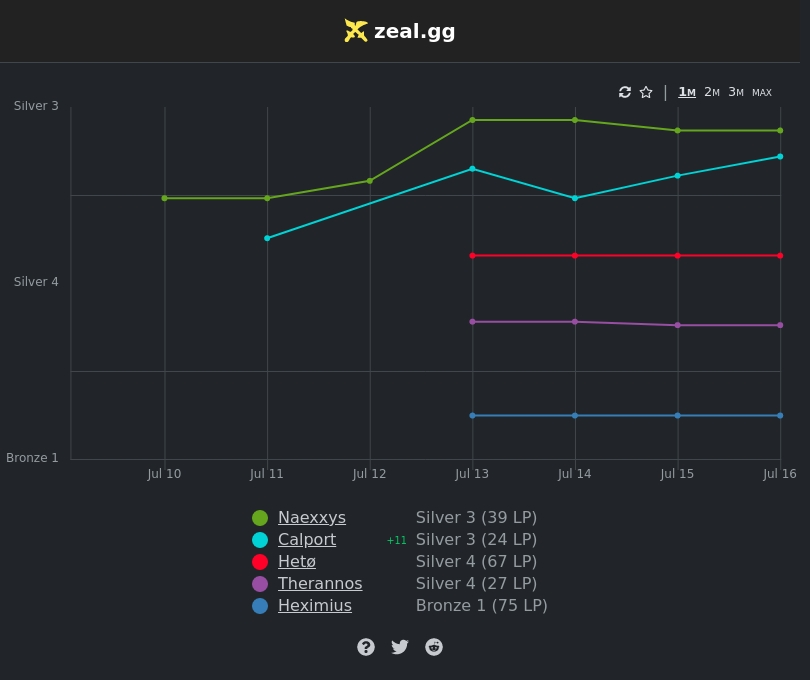
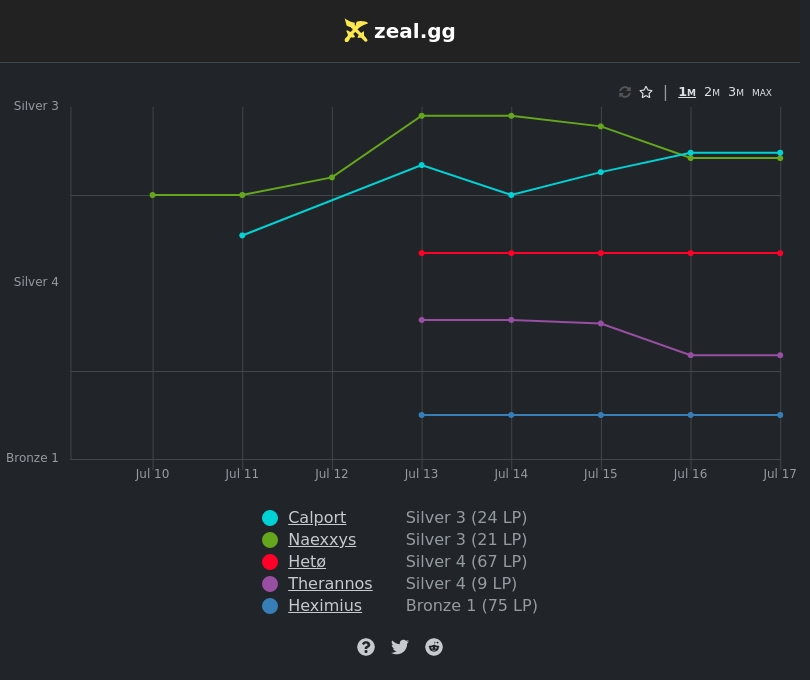
button click

diff --git a/example.js b/example.js
@@ -4,6 +4,7 @@ const puppeteer = require('puppeteer');
 require('dotenv').config({path:"./.env"});
 
 const clipeee = {x: 0, y: 0, width: 810, height: 680}
+
 client.on("ready", () =>
 {
   console.log(`Logged in as ${client.user.tag}!`)
@@ -19,10 +20,12 @@ client.on("message", msg =>
 		const page = await browser.newPage();
 		await page.goto('https://zeal.gg/wnDrPTx');
 		await page.waitForTimeout(1000);
+		await page.mouse.click(630, 103)
+		await page.waitForTimeout(2000);
 		await page.screenshot({ type: "jpeg", path: 'screen.jpg', quality: 100, clip:clipeee});
 		await browser.close();
 	  })();
-	  msg.channel.send({files:['./screen.jpg']});
+	msg.channel.send({files:['./screen.jpg']});
     //alert(screenshotTarget);
   }
 })
